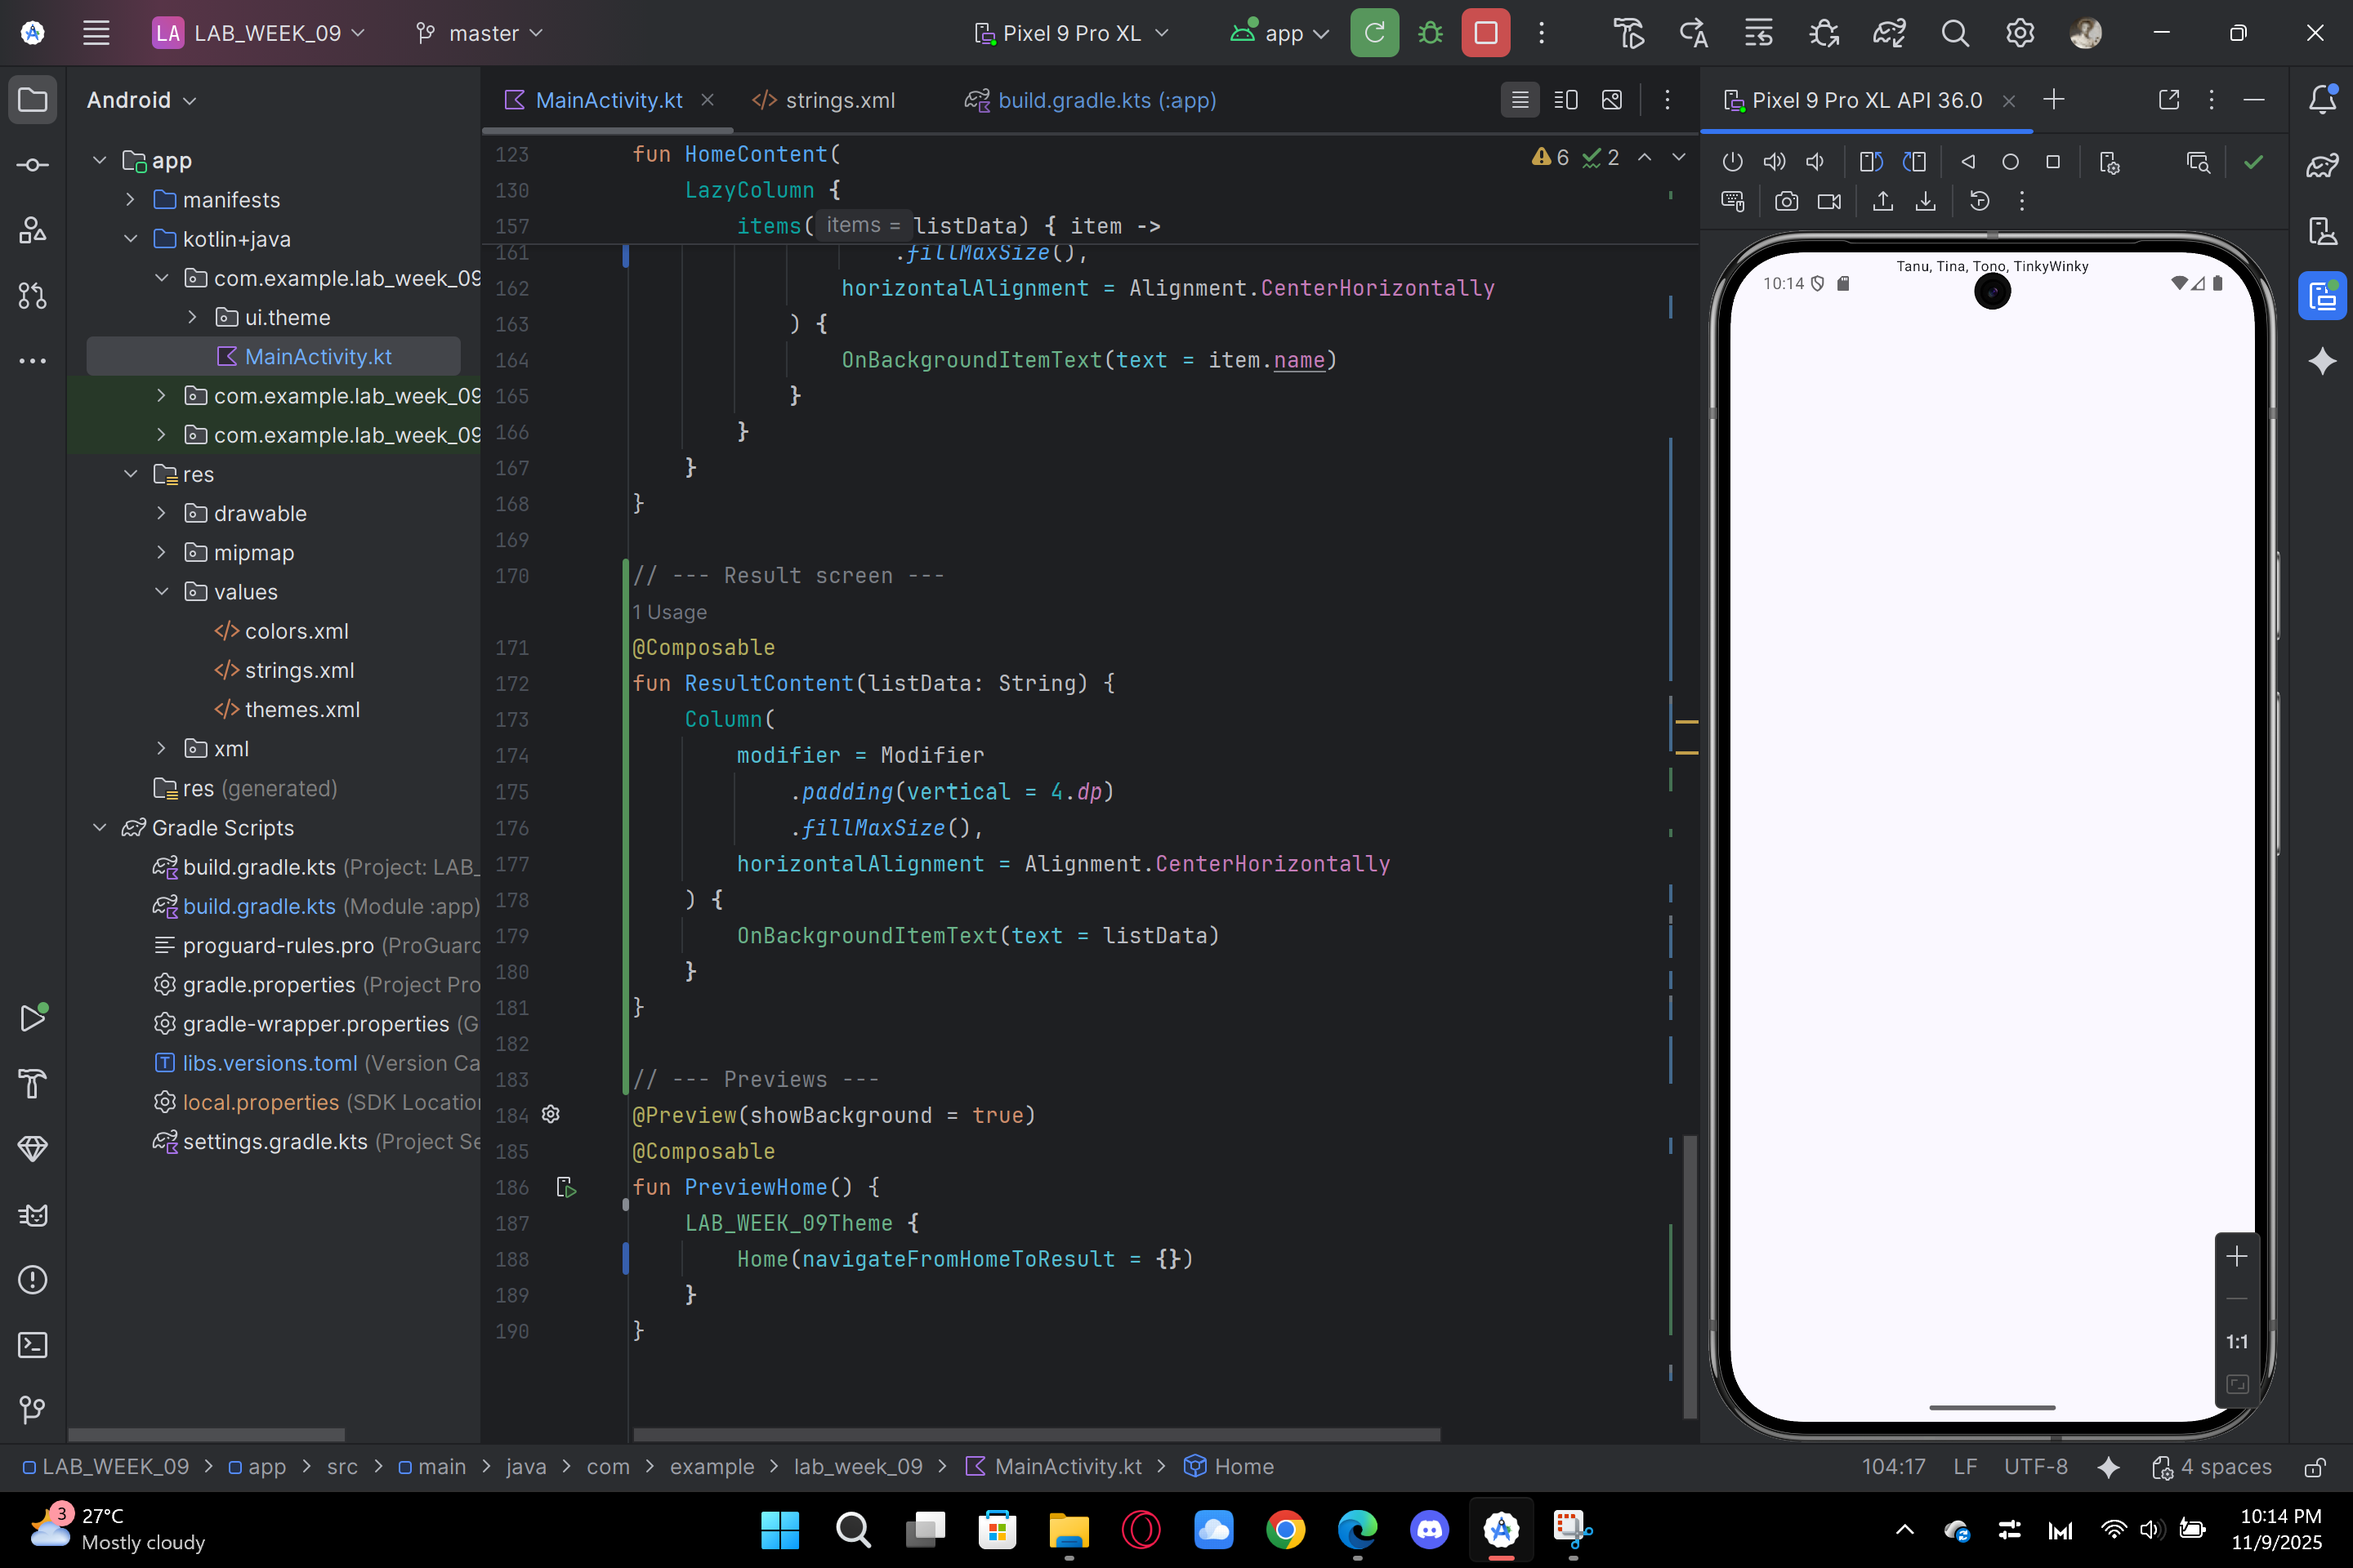
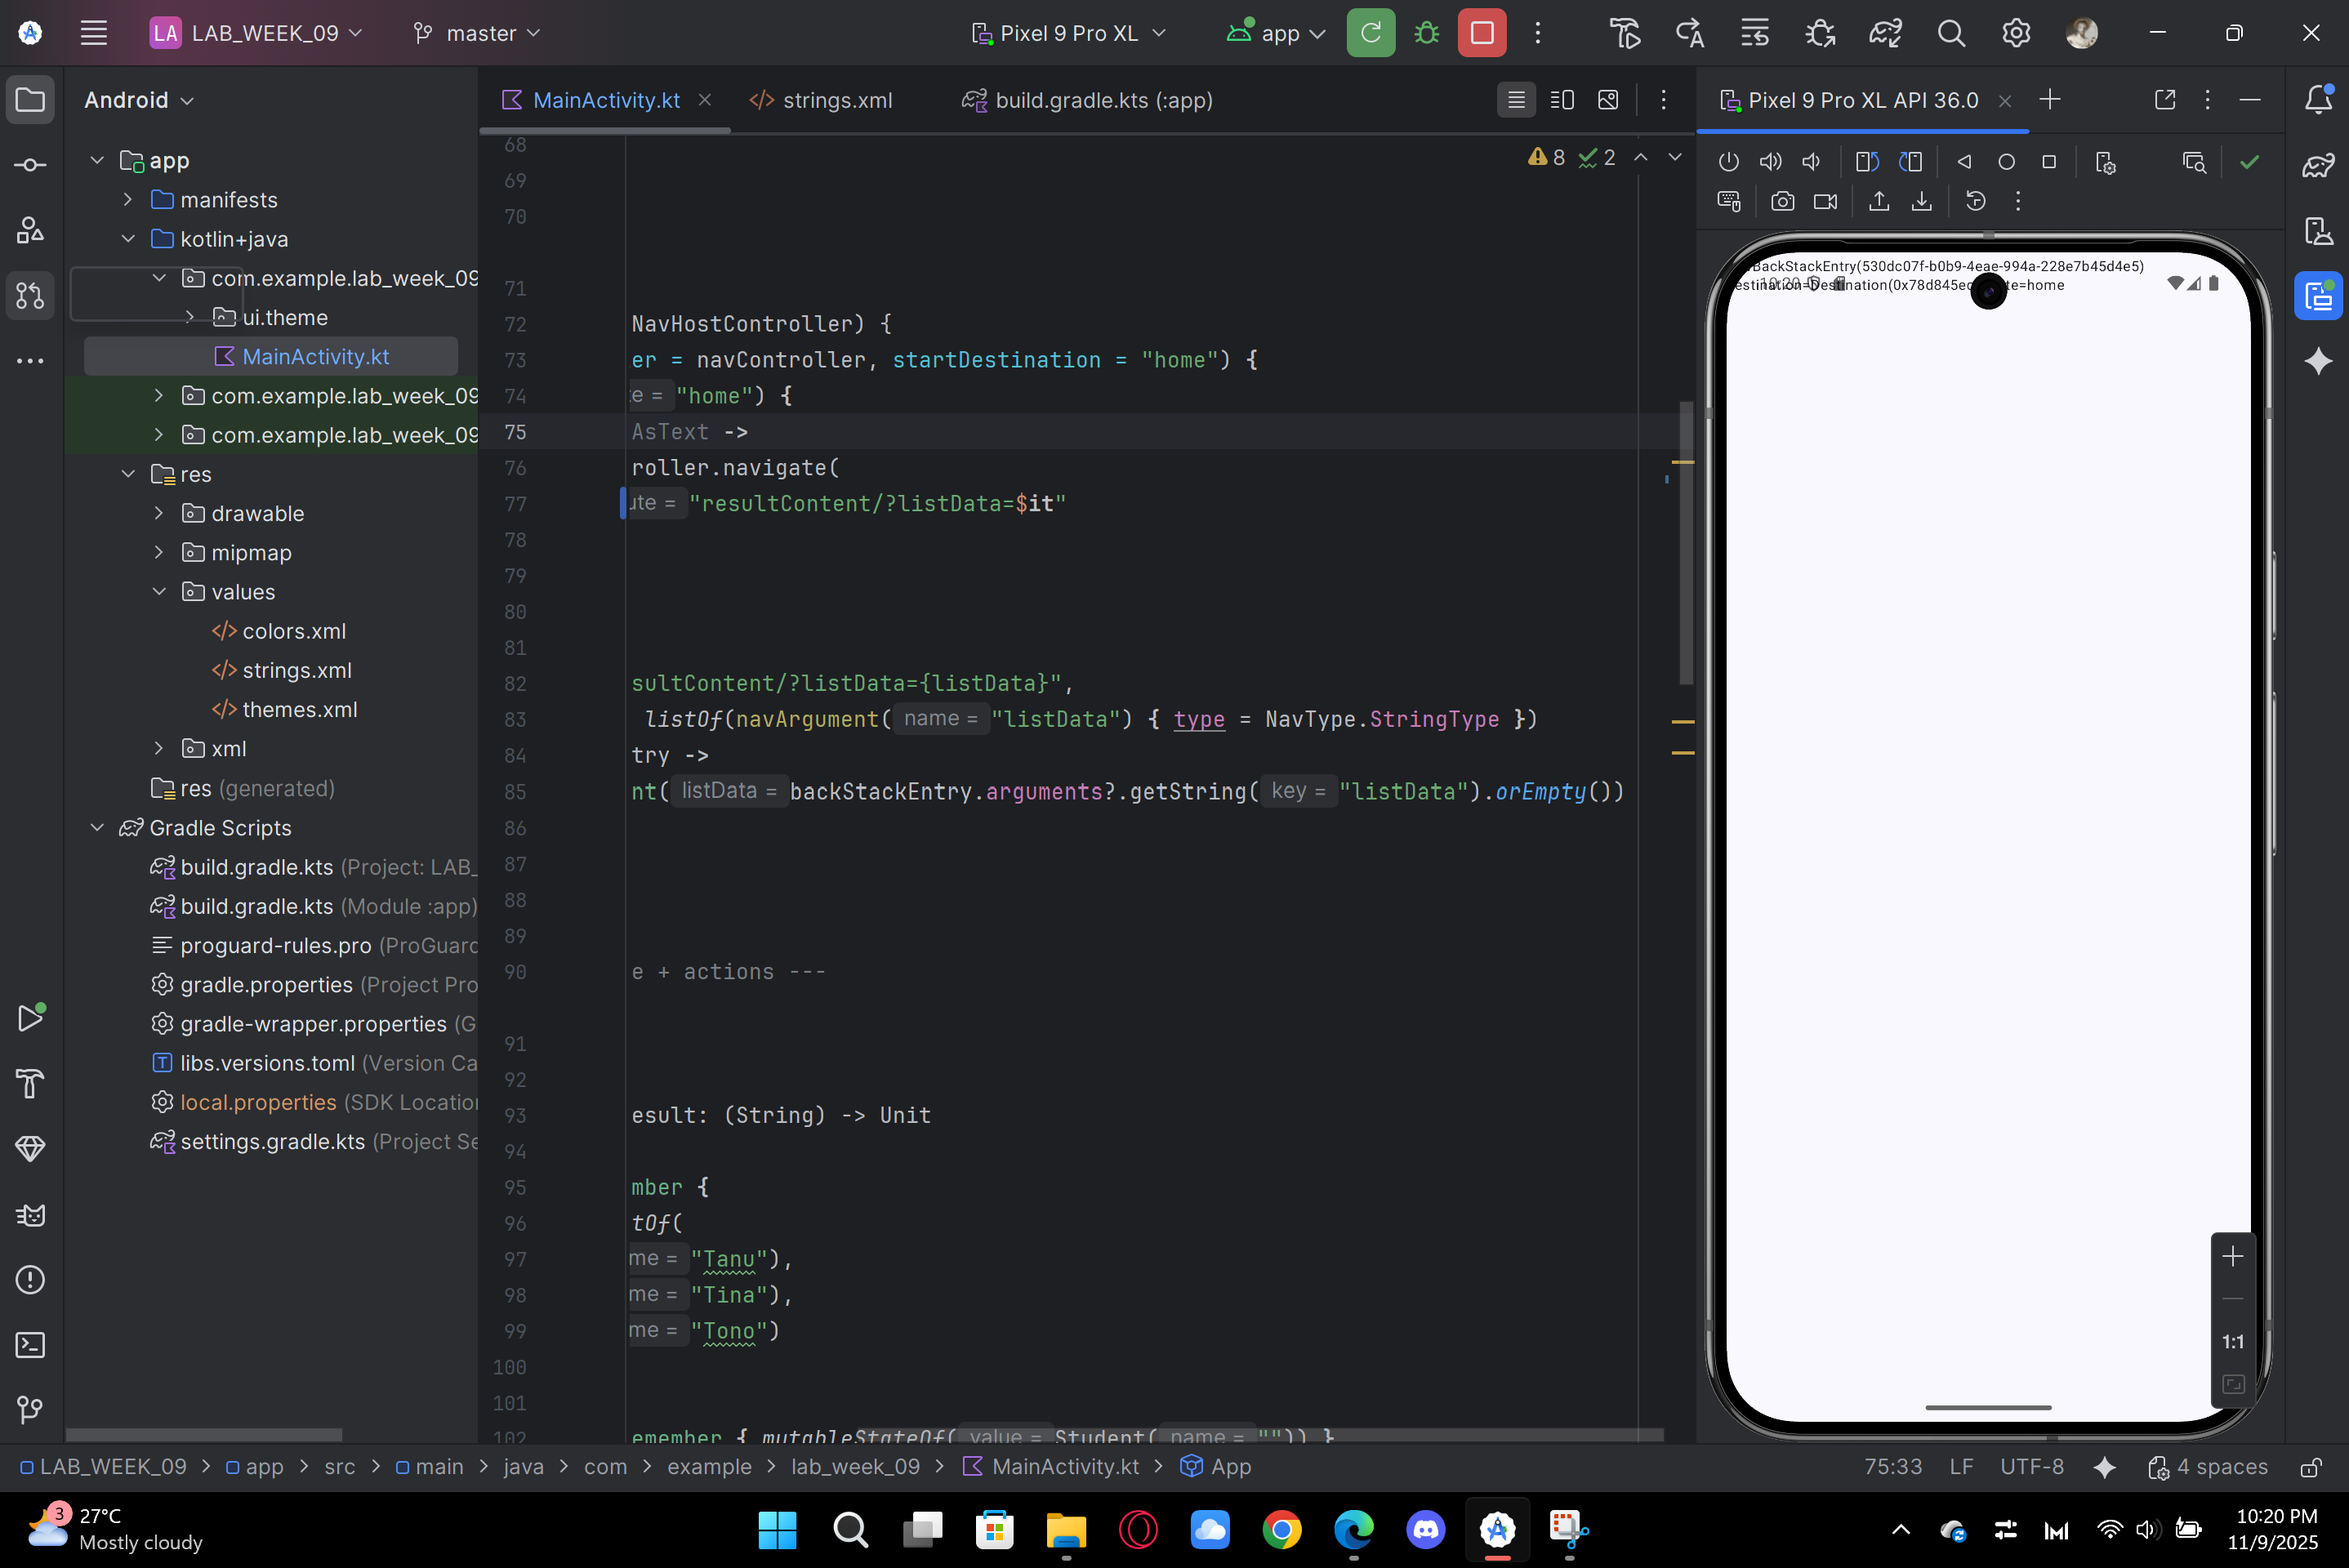
Commit No. 4 – Navigation

diff --git a/app/src/main/java/com/example/lab_week_09/MainActivity.kt b/app/src/main/java/com/example/lab_week_09/MainActivity.kt
@@ -74,7 +74,7 @@ fun App(navController: NavHostController) {
         composable("home") {
             Home { listAsText ->
                 navController.navigate(
-                    "resultContent/?listData=${Uri.encode(listAsText)}"
+                    "resultContent/?listData=$it"
                 )
             }
         }
